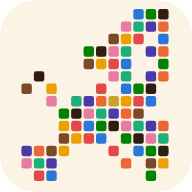
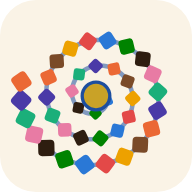
feat(brand): the Spun Thread mark (#265)

diff --git a/src/components/MosaicMark.vue b/src/components/MosaicMark.vue
@@ -1,16 +1,17 @@
 <script setup>
 /**
- * The Fontem mark — the Mosaic of Europe. Tesserae of the platform's
- * eight categorical chart hues tile the silhouette of the continent
- * (the grid below is rasterised from Fontem's own NUTS-0 boundaries).
- * Onyx and umber "drawing stones" are woven through — in the mosaic
- * craft the dark stones draw the figure, so it doesn't hold together
- * without them, and neither does Europe. A single gold tessera near
- * the centre is the source: fontem, the spring. On dark grounds the
- * drawing stones take a thin gold-glass rim (the Byzantine trick) so
- * they stay legible against dusk.
+ * The Fontem mark — the Spun Thread. A single thread unspools from a
+ * gold source-point (fontem, the spring) and spirals outward, beaded
+ * with tesserae of the platform's eight categorical chart hues: each
+ * bead is a record strung on the line you follow — following the money.
+ * Onyx and umber "drawing stones" are woven through (the dark stones
+ * draw the figure). The spiral is the spindle-whorl and the spun thread
+ * of the Fates — following a thread, and spinning it, are the oldest
+ * women's knowledge in Europe. On dark grounds the thread lifts and the
+ * drawing stones take a gold-glass rim (the Byzantine trick).
  *
- * Decorative by default (aria-hidden); the surrounding button/link
+ * The geometry is computed (one source of truth, matching the favicon),
+ * decorative by default (aria-hidden); the surrounding button/link
  * carries the accessible name.
  */
 import { computed } from 'vue'
@@ -20,58 +21,61 @@ defineProps({
   size: { type: [Number, String], default: 28 },
 })
 
-// Europe as a low-res mask — one string per row, '#' = land. Rasterised
-// from the NUTS-0 country outlines the platform already serves.
-const GRID = [
-  '.........###', '........####', '.......###.#', '.....####.##',
-  '.....####..#', '.#.....##.##', '#.#...#.###.', '..#.#######.',
-  '...#######..', '...#########', '...####.####', '####...#.###',
-  '###.....#.##', '.##.......#.',
-]
-const COLS = 12
-const GOLD_C = 7
-const GOLD_R = 7
 const HUES = ['#2a78d6', '#1baf7a', '#eda100', '#008300', '#4a3aa7', '#e34948', '#e87ba4', '#eb6834']
 const ONYX = '#2e1d10'
 const UMBER = '#7a4a28'
-const GOLD = '#c9a227'
 
-// Fit the grid into the 64-unit viewBox with a small margin.
-const AVAIL = 58
-const CELL = AVAIL / Math.max(COLS, GRID.length)
-const OX = (64 - COLS * CELL) / 2
-const OY = (64 - GRID.length * CELL) / 2
+// Archimedean spiral r = rIn + b·θ, sampled finely for the thread stroke;
+// tesserae are dropped along it at roughly equal arc length.
+const CX = 32
+const TURNS = 2.55
+const THETA_MAX = TURNS * 2 * Math.PI
+const R_IN = 3.6
+const R_OUT = 25.5
+const B = (R_OUT - R_IN) / THETA_MAX
+const SPACING = 6
 
-const tesserae = computed(() => {
-  const out = []
+const mark = computed(() => {
+  const pts = []
+  for (let th = 0; th <= THETA_MAX; th += 0.05) {
+    const r = R_IN + B * th
+    pts.push([CX + r * Math.cos(th), CX + r * Math.sin(th), th])
+  }
+  const threadD = pts.reduce(
+    (d, p, i) => d + `${i ? ' L' : 'M'}${p[0].toFixed(2)} ${p[1].toFixed(2)}`, '')
+
+  const beads = []
+  let acc = SPACING
   let hue = 0
-  let idx = 0
-  GRID.forEach((row, r) => {
-    for (let c = 0; c < COLS; c += 1) {
-      if (row[c] === '#') {
-        const s = CELL * 0.84
-        let fill
-        let kind = ''
-        if (c === GOLD_C && r === GOLD_R) {
-          fill = GOLD; kind = 'src'
-        } else if (idx % 5 === 2) {
-          fill = idx % 10 === 2 ? ONYX : UMBER; kind = 'draw'
-        } else {
-          fill = HUES[hue % HUES.length]; hue += 3
-        }
-        idx += 1
-        out.push({
-          x: +(OX + c * CELL).toFixed(2),
-          y: +(OY + r * CELL).toFixed(2),
-          s: +s.toFixed(2),
-          rx: +Math.max(0.4, s * 0.22).toFixed(2),
-          fill,
-          kind,
-        })
+  let k = 0
+  let prev = null
+  pts.forEach((p) => {
+    if (prev) acc += Math.hypot(p[0] - prev[0], p[1] - prev[1])
+    prev = p
+    if (acc >= SPACING && p[2] > 0.35) {
+      acc = 0
+      const s = 3.2 + (p[2] / THETA_MAX) * 2.4
+      const draw = k % 5 === 2
+      let fill
+      if (draw) {
+        fill = k % 10 === 2 ? ONYX : UMBER
+      } else {
+        fill = HUES[hue % HUES.length]
+        hue += 3
       }
+      k += 1
+      beads.push({
+        x: +(p[0] - s / 2).toFixed(2),
+        y: +(p[1] - s / 2).toFixed(2),
+        s: +s.toFixed(2),
+        rx: +(s * 0.24).toFixed(2),
+        rot: `rotate(${((p[2] * 180) / Math.PI + 45).toFixed(1)} ${p[0].toFixed(2)} ${p[1].toFixed(2)})`,
+        fill,
+        draw,
+      })
     }
   })
-  return out
+  return { threadD, beads }
 })
 </script>
 
@@ -80,22 +84,36 @@ const tesserae = computed(() => {
     class="mosaic-mark" :width="size" :height="size" viewBox="0 0 64 64"
     aria-hidden="true" focusable="false"
   >
-    <rect
-      v-for="(t, i) in tesserae" :key="i"
-      :class="{ 'mm-draw': t.kind === 'draw', 'mm-src': t.kind === 'src' }"
-      :x="t.x" :y="t.y" :width="t.s" :height="t.s" :rx="t.rx" :fill="t.fill"
+    <path
+      class="mm-thread" :d="mark.threadD" fill="none"
+      stroke-width="1.5" stroke-linecap="round" opacity="0.55"
     />
+    <rect
+      v-for="(t, i) in mark.beads" :key="i"
+      :class="{ 'mm-draw': t.draw }"
+      :x="t.x" :y="t.y" :width="t.s" :height="t.s" :rx="t.rx"
+      :fill="t.fill" :transform="t.rot"
+    />
+    <circle cx="32" cy="32" r="4.6" fill="#c9a227" />
+    <circle class="mm-ring" cx="32" cy="32" r="4.6" fill="none" stroke-width="1.1" />
   </svg>
 </template>
 
 <style scoped>
 .mosaic-mark { display: block; }
-/* Drawing stones read on light grounds; on the dusk chrome of dark mode
-   they take the Byzantine gold-glass rim so the figure stays legible. */
+/* The thread + source ring are lapis; on dusk they lift so the mark
+   reads on dark chrome. The drawing stones take the Byzantine
+   gold-glass rim in dark, same as the favicon. */
+.mm-thread, .mm-ring { stroke: #1d4e9e; }
 .mosaic-mark .mm-draw { stroke: none; }
-:global(html.dark) .mosaic-mark .mm-draw { stroke: #c9a227; stroke-width: 0.5; }
+:global(html.dark) .mm-thread,
+:global(html.dark) .mm-ring { stroke: #8fb0ea; }
+:global(html.dark) .mosaic-mark .mm-draw { stroke: #c9a227; stroke-width: 0.6; }
 @media (prefers-color-scheme: dark) {
-  .mosaic-mark .mm-draw { stroke: #c9a227; stroke-width: 0.5; }
+  .mm-thread, .mm-ring { stroke: #8fb0ea; }
+  .mosaic-mark .mm-draw { stroke: #c9a227; stroke-width: 0.6; }
 }
+:global(html:not(.dark)) .mm-thread,
+:global(html:not(.dark)) .mm-ring { stroke: #1d4e9e; }
 :global(html:not(.dark)) .mosaic-mark .mm-draw { stroke: none; }
 </style>

diff --git a/tests/unit/MosaicMark.test.js b/tests/unit/MosaicMark.test.js
@@ -2,29 +2,32 @@ import { describe, it, expect } from 'vitest'
 import { mount } from '@vue/test-utils'
 import MosaicMark from '../../src/components/MosaicMark.vue'
 
-// The mark tiles a low-res Europe silhouette; the grid has 82 land cells.
-const LAND = 82
+// The mark beads a spiral thread; the deterministic geometry yields 37 beads.
+const BEADS = 37
 
-describe('MosaicMark', () => {
-  it('tiles the Europe silhouette in tesserae, decorative by default', () => {
+describe('MosaicMark (the Spun Thread)', () => {
+  it('draws the thread + beads it with tesserae, decorative by default', () => {
     const w = mount(MosaicMark)
     const svg = w.find('svg')
-    expect(svg.exists()).toBe(true)
     expect(svg.attributes('aria-hidden')).toBe('true')
-    expect(w.findAll('rect').length).toBe(LAND)
+    expect(w.find('path.mm-thread').exists()).toBe(true) // the thread
+    expect(w.find('path.mm-thread').attributes('d')).toMatch(/^M/)
+    expect(w.findAll('rect').length).toBe(BEADS) // the records on it
   })
 
-  it('marks a single gold source tile — fontem, the spring', () => {
+  it('anchors a gold source-point — fontem, the spring', () => {
     const w = mount(MosaicMark)
-    const src = w.findAll('rect.mm-src')
-    expect(src.length).toBe(1)
-    expect(src[0].attributes('fill')).toBe('#c9a227')
+    const circles = w.findAll('circle')
+    // a filled gold disc + its lapis ring, both at the spiral centre
+    expect(circles.length).toBe(2)
+    expect(circles[0].attributes('fill')).toBe('#c9a227')
+    expect(circles.every((c) => c.attributes('cx') === '32' && c.attributes('cy') === '32')).toBe(true)
   })
 
-  it('weaves the dark drawing stones through the figure', () => {
+  it('weaves the dark drawing stones through the thread', () => {
     const w = mount(MosaicMark)
     const draw = w.findAll('rect.mm-draw')
-    expect(draw.length).toBeGreaterThanOrEqual(10)
+    expect(draw.length).toBeGreaterThanOrEqual(5)
     const fills = draw.map((r) => r.attributes('fill'))
     expect(fills).toContain('#2e1d10') // onyx
     expect(fills).toContain('#7a4a28') // umber

diff --git a/index.html b/index.html
@@ -7,9 +7,9 @@
     <title>Fontem — Follow the numbers, verify the claims</title>
     <meta name="description" content="Fontem — the primary-source transparency platform. EU companies, public procurement, lobbyists, and cohesion funding, linked into one graph and cross-checked against the official registers."/>
     <!--/ssr-head-->
-    <link rel="icon" type="image/svg+xml" href="/favicon.svg?v=europe"/>
-    <link rel="manifest" href="/manifest.json?v=europe"/>
-    <link rel="apple-touch-icon" href="/apple-touch-icon.png?v=europe"/>
+    <link rel="icon" type="image/svg+xml" href="/favicon.svg?v=thread"/>
+    <link rel="manifest" href="/manifest.json?v=thread"/>
+    <link rel="apple-touch-icon" href="/apple-touch-icon.png?v=thread"/>
     <meta name="theme-color" content="#1d4e9e"/>
     <meta name="apple-mobile-web-app-capable" content="yes"/>
     <meta name="apple-mobile-web-app-status-bar-style" content="black-translucent"/>
